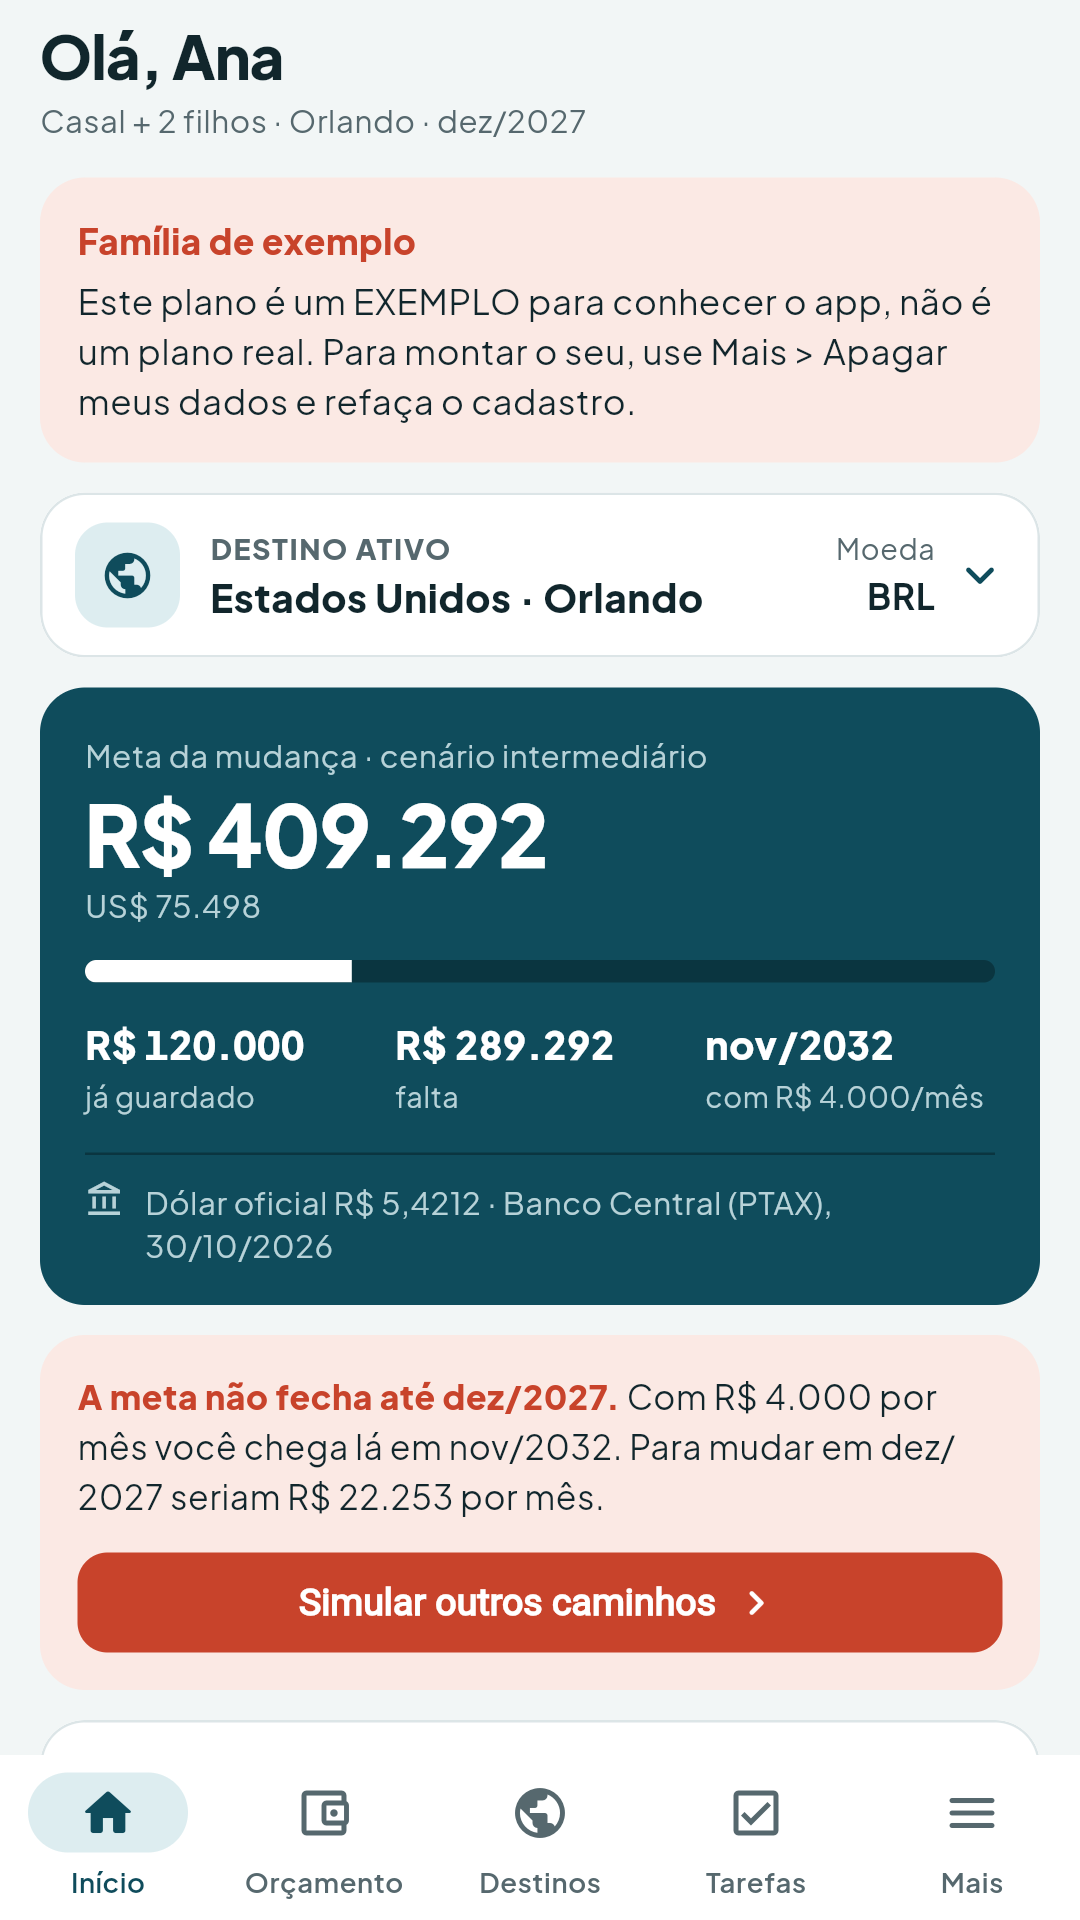
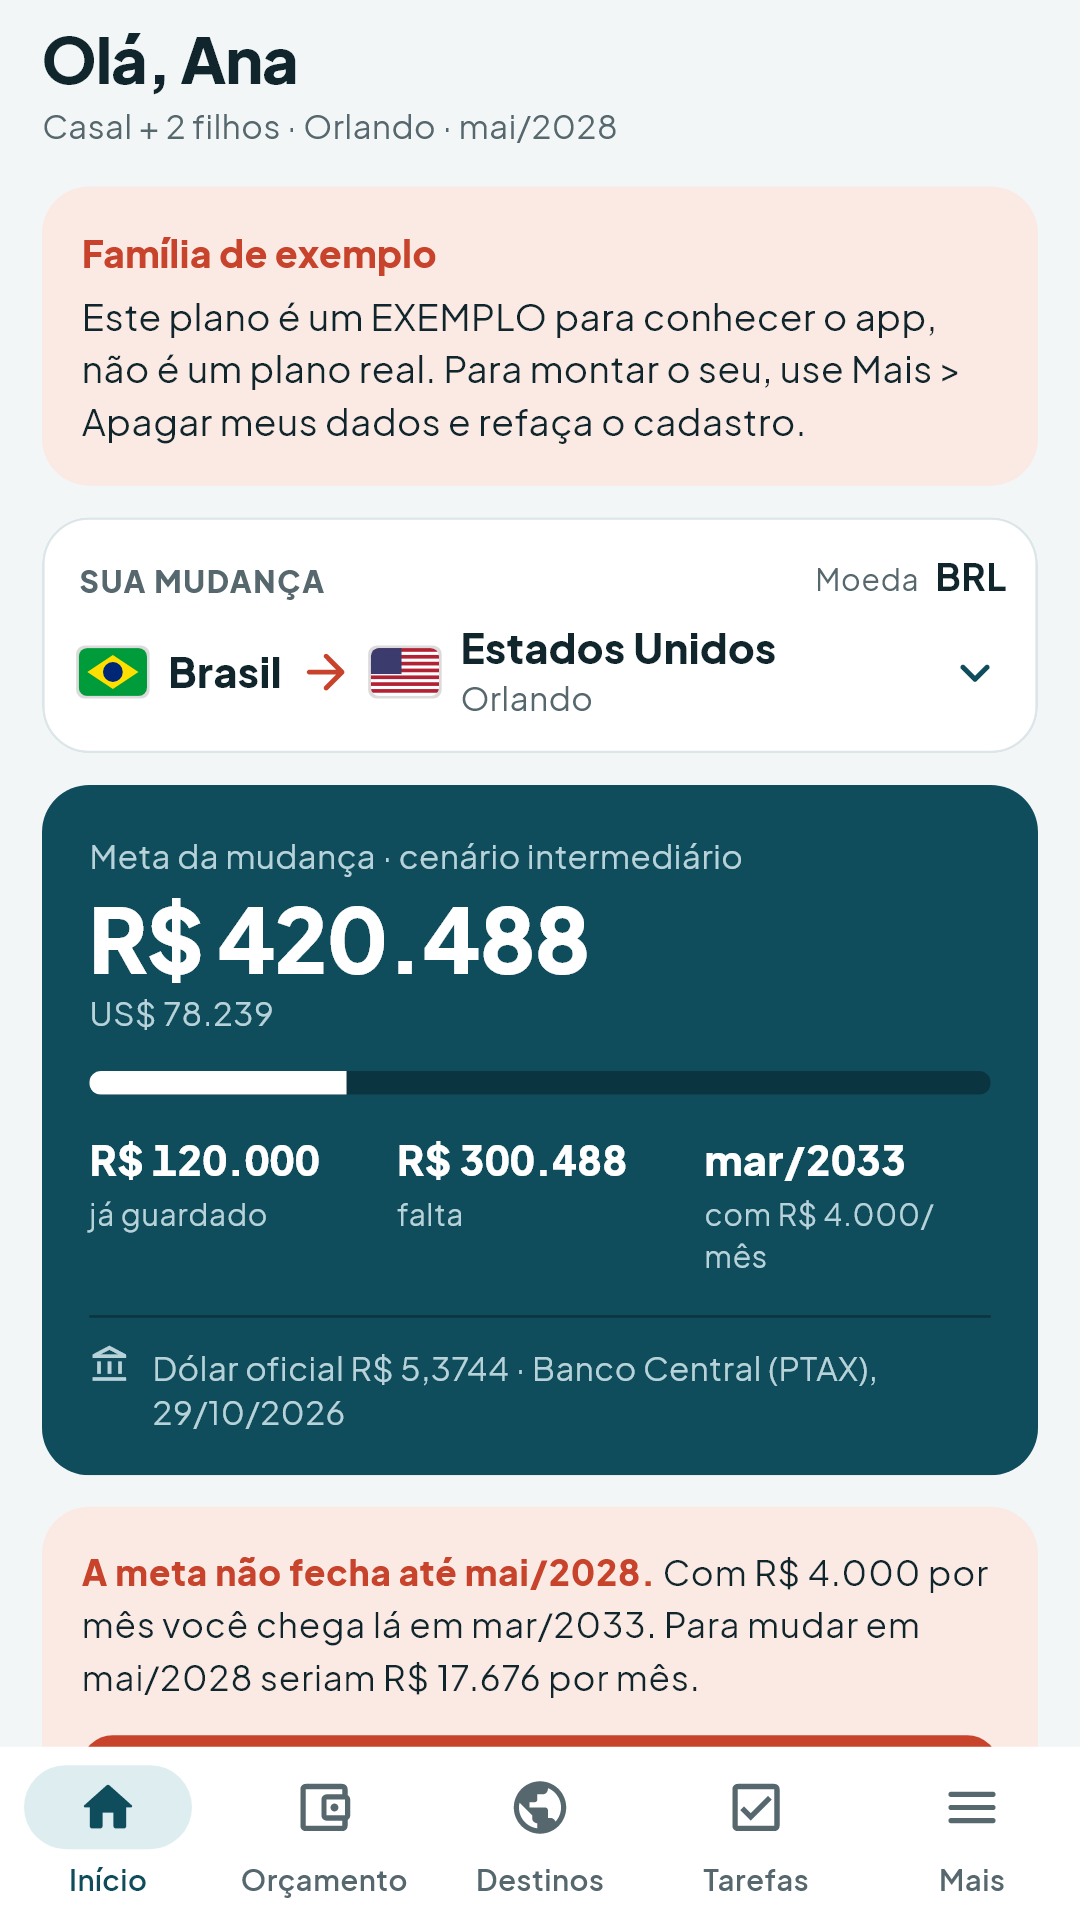
Contagem anonima de visitas e de toques nos selos

diff --git a/index.html b/index.html
@@ -13,7 +13,7 @@
 <link rel="stylesheet" href="estilo.css">
 <script>(function(){var l=new URLSearchParams(location.search).get('lang');if(l!=='pt'&&l!=='en'){l=null;try{l=localStorage.getItem('idioma')}catch(e){}}if(!l)l=(navigator.language||'').toLowerCase().indexOf('pt')===0?'pt':'en';document.documentElement.className='l-'+l;document.documentElement.lang=l==='pt'?'pt-BR':'en'})();</script>
 </head>
-<body class="site ">
+<body class="site " data-pagina="inicio">
 <header class="s-topo">
   <a class="s-marca" href="/">Emanuel Pools Corp</a>
   <button type="button" class="s-idioma" aria-label="Português / English"><b data-l="pt">PT</b><span data-l="pt">EN</span><span data-l="en">PT</span><b data-l="en">EN</b></button>
@@ -31,8 +31,8 @@
     </div>
     <span class="estado ok"><span data-l="pt">Disponível</span><span data-l="en">Available</span></span>
     <div class="selos">
-  <a href="https://apps.apple.com/app/id6829007862"><img data-l="pt" src="img/app-store-pt.png" alt="Baixar na App Store" width="120" height="40"><img data-l="en" src="img/app-store-en.png" alt="Download on the App Store" width="120" height="40"></a>
-  <a class="gp" href="https://play.google.com/store/apps/details?id=com.emanuelpools.meuplanomundo"><img data-l="pt" src="img/google-play-pt.png" alt="Disponível no Google Play"><img data-l="en" src="img/google-play-en.png" alt="Get it on Google Play"></a>
+  <a data-loja="apple" data-app="meuplano" href="https://apps.apple.com/app/id6829007862"><img data-l="pt" src="img/app-store-pt.png" alt="Baixar na App Store" width="120" height="40"><img data-l="en" src="img/app-store-en.png" alt="Download on the App Store" width="120" height="40"></a>
+  <a class="gp" data-loja="play" data-app="meuplano" href="https://play.google.com/store/apps/details?id=com.emanuelpools.meuplanomundo"><img data-l="pt" src="img/google-play-pt.png" alt="Disponível no Google Play"><img data-l="en" src="img/google-play-en.png" alt="Get it on Google Play"></a>
 </div>
     <div class="b-pe"><a href="/meuplano/"><span data-l="pt">Ver o app</span><span data-l="en">See the app</span><svg class="sv" viewBox="0 0 24 24" width="18" height="18" aria-hidden="true"><path d="M9 5l7 7-7 7" fill="none" stroke="currentColor" stroke-width="2.4" stroke-linecap="round" stroke-linejoin="round"/></svg></a><span class="mono">/meuplano</span></div>
   </article>
@@ -43,8 +43,8 @@
     </div>
     <span class="estado ok"><span data-l="pt">Disponível</span><span data-l="en">Available</span></span>
     <div class="selos">
-  <a href="https://apps.apple.com/app/id6808331337"><img data-l="pt" src="img/app-store-pt.png" alt="Baixar na App Store" width="120" height="40"><img data-l="en" src="img/app-store-en.png" alt="Download on the App Store" width="120" height="40"></a>
-  <a class="gp" href="https://play.google.com/store/apps/details?id=com.emanuelpools.zaproute_app"><img data-l="pt" src="img/google-play-pt.png" alt="Disponível no Google Play"><img data-l="en" src="img/google-play-en.png" alt="Get it on Google Play"></a>
+  <a data-loja="apple" data-app="zaproute" href="https://apps.apple.com/app/id6808331337"><img data-l="pt" src="img/app-store-pt.png" alt="Baixar na App Store" width="120" height="40"><img data-l="en" src="img/app-store-en.png" alt="Download on the App Store" width="120" height="40"></a>
+  <a class="gp" data-loja="play" data-app="zaproute" href="https://play.google.com/store/apps/details?id=com.emanuelpools.zaproute_app"><img data-l="pt" src="img/google-play-pt.png" alt="Disponível no Google Play"><img data-l="en" src="img/google-play-en.png" alt="Get it on Google Play"></a>
 </div>
     <div class="b-pe"><a href="https://zaprouteapp.com"><span data-l="pt">Ver o site</span><span data-l="en">See the site</span><svg class="sv" viewBox="0 0 24 24" width="18" height="18" aria-hidden="true"><path d="M9 5l7 7-7 7" fill="none" stroke="currentColor" stroke-width="2.4" stroke-linecap="round" stroke-linejoin="round"/></svg></a><span class="mono">zaprouteapp.com</span></div>
   </article>
@@ -55,8 +55,8 @@
     </div>
     <span class="estado ok"><span data-l="pt">Disponível</span><span data-l="en">Available</span></span>
     <div class="selos">
-  <a href="https://apps.apple.com/app/id6832136001"><img data-l="pt" src="img/app-store-pt.png" alt="Baixar na App Store" width="120" height="40"><img data-l="en" src="img/app-store-en.png" alt="Download on the App Store" width="120" height="40"></a>
-  <a class="gp" href="https://play.google.com/store/apps/details?id=com.emanuelpools.viavista"><img data-l="pt" src="img/google-play-pt.png" alt="Disponível no Google Play"><img data-l="en" src="img/google-play-en.png" alt="Get it on Google Play"></a>
+  <a data-loja="apple" data-app="viavista" href="https://apps.apple.com/app/id6832136001"><img data-l="pt" src="img/app-store-pt.png" alt="Baixar na App Store" width="120" height="40"><img data-l="en" src="img/app-store-en.png" alt="Download on the App Store" width="120" height="40"></a>
+  <a class="gp" data-loja="play" data-app="viavista" href="https://play.google.com/store/apps/details?id=com.emanuelpools.viavista"><img data-l="pt" src="img/google-play-pt.png" alt="Disponível no Google Play"><img data-l="en" src="img/google-play-en.png" alt="Get it on Google Play"></a>
 </div>
     <div class="b-pe"><a href="/viavista/"><span data-l="pt">Ver o app</span><span data-l="en">See the app</span><svg class="sv" viewBox="0 0 24 24" width="18" height="18" aria-hidden="true"><path d="M9 5l7 7-7 7" fill="none" stroke="currentColor" stroke-width="2.4" stroke-linecap="round" stroke-linejoin="round"/></svg></a><span class="mono">/viavista</span></div>
   </article>
@@ -66,6 +66,7 @@
   <p><span data-l="pt">Procurando serviço de piscina?</span><span data-l="en">Looking for pool service?</span> <a href="https://emanuelpool.com" rel="nofollow"><span data-l="pt">Acesse</span><span data-l="en">Go to</span> emanuelpool.com</a></p>
   <p><span data-l="pt">Suporte</span><span data-l="en">Support</span>: <a href="mailto:emanuelpools@gmail.com">emanuelpools@gmail.com</a></p>
   <p class="fraco">© 2026 Emanuel Pools Corp · Boca Raton, Florida</p>
+  <p class="fraco"><span data-l="pt">Este site conta visitas sem cookies e sem identificar você.</span><span data-l="en">This site counts visits without cookies and without identifying you.</span></p>
 </footer>
 <script>(function(){
 var r=document.documentElement,b=document.querySelectorAll('.s-idioma');
@@ -75,5 +76,6 @@ b.forEach(function(x){x.addEventListener('click',function(){var l=atual()==='pt'
 document.querySelectorAll('[data-ficha]').forEach(function(a){a.addEventListener('click',function(e){e.preventDefault();secao(a.dataset.ficha);history.replaceState(null,'','#'+a.dataset.ficha)})});
 var h=location.hash.slice(1);secao(/^(pt|en|es|it)$/.test(h)?h:atual());
 })();</script>
+<script src="contar.js" defer></script>
 </body>
 </html>

diff --git a/meuplano/index.html b/meuplano/index.html
@@ -13,7 +13,7 @@
 <link rel="stylesheet" href="../estilo.css">
 <script>(function(){var l=new URLSearchParams(location.search).get('lang');if(l!=='pt'&&l!=='en'){l=null;try{l=localStorage.getItem('idioma')}catch(e){}}if(!l)l=(navigator.language||'').toLowerCase().indexOf('pt')===0?'pt':'en';document.documentElement.className='l-'+l;document.documentElement.lang=l==='pt'?'pt-BR':'en'})();</script>
 </head>
-<body class="site ">
+<body class="site " data-pagina="meuplano">
 <header class="s-topo">
   <a class="s-volta" href="/"><svg class="sv" viewBox="0 0 24 24" width="18" height="18" aria-hidden="true"><path d="M15 5l-7 7 7 7" fill="none" stroke="currentColor" stroke-width="2.4" stroke-linecap="round" stroke-linejoin="round"/></svg><span data-l="pt">Todos os apps</span><span data-l="en">All apps</span></a>
   <button type="button" class="s-idioma" aria-label="Português / English"><b data-l="pt">PT</b><span data-l="pt">EN</span><span data-l="en">PT</span><b data-l="en">EN</b></button>
@@ -25,8 +25,8 @@
     <h1><span data-l="pt">Meu Plano Mundo</span><span data-l="en">My World Plan</span></h1>
     <p><span data-l="pt">Planeje a sua vida no exterior com números, prazos e fontes.</span><span data-l="en">Plan your life abroad with numbers, deadlines and sources.</span></p>
     <div class="selos">
-  <a href="https://apps.apple.com/app/id6829007862"><img data-l="pt" src="../img/app-store-pt.png" alt="Baixar na App Store" width="120" height="40"><img data-l="en" src="../img/app-store-en.png" alt="Download on the App Store" width="120" height="40"></a>
-  <a class="gp" href="https://play.google.com/store/apps/details?id=com.emanuelpools.meuplanomundo"><img data-l="pt" src="../img/google-play-pt.png" alt="Disponível no Google Play"><img data-l="en" src="../img/google-play-en.png" alt="Get it on Google Play"></a>
+  <a data-loja="apple" data-app="meuplano" href="https://apps.apple.com/app/id6829007862"><img data-l="pt" src="../img/app-store-pt.png" alt="Baixar na App Store" width="120" height="40"><img data-l="en" src="../img/app-store-en.png" alt="Download on the App Store" width="120" height="40"></a>
+  <a class="gp" data-loja="play" data-app="meuplano" href="https://play.google.com/store/apps/details?id=com.emanuelpools.meuplanomundo"><img data-l="pt" src="../img/google-play-pt.png" alt="Disponível no Google Play"><img data-l="en" src="../img/google-play-en.png" alt="Get it on Google Play"></a>
 </div>
   </div>
   <div class="h-foto"><img data-l="pt" src="../img/meu-plano-tela-pt.png" alt="Tela inicial do app com um plano de exemplo"><img data-l="en" src="../img/meu-plano-tela-en.png" alt="App home screen with a sample plan"></div>
@@ -45,6 +45,7 @@
   <p><span data-l="pt">Procurando serviço de piscina?</span><span data-l="en">Looking for pool service?</span> <a href="https://emanuelpool.com" rel="nofollow"><span data-l="pt">Acesse</span><span data-l="en">Go to</span> emanuelpool.com</a></p>
   <p><span data-l="pt">Suporte</span><span data-l="en">Support</span>: <a href="mailto:emanuelpools@gmail.com">emanuelpools@gmail.com</a></p>
   <p class="fraco">© 2026 Emanuel Pools Corp · Boca Raton, Florida</p>
+  <p class="fraco"><span data-l="pt">Este site conta visitas sem cookies e sem identificar você.</span><span data-l="en">This site counts visits without cookies and without identifying you.</span></p>
 </footer>
 <script>(function(){
 var r=document.documentElement,b=document.querySelectorAll('.s-idioma');
@@ -54,5 +55,6 @@ b.forEach(function(x){x.addEventListener('click',function(){var l=atual()==='pt'
 document.querySelectorAll('[data-ficha]').forEach(function(a){a.addEventListener('click',function(e){e.preventDefault();secao(a.dataset.ficha);history.replaceState(null,'','#'+a.dataset.ficha)})});
 var h=location.hash.slice(1);secao(/^(pt|en|es|it)$/.test(h)?h:atual());
 })();</script>
+<script src="../contar.js" defer></script>
 </body>
 </html>

diff --git a/viavista/index.html b/viavista/index.html
@@ -13,7 +13,7 @@
 <link rel="stylesheet" href="../estilo.css">
 <script>(function(){var l=new URLSearchParams(location.search).get('lang');if(l!=='pt'&&l!=='en'){l=null;try{l=localStorage.getItem('idioma')}catch(e){}}if(!l)l=(navigator.language||'').toLowerCase().indexOf('pt')===0?'pt':'en';document.documentElement.className='l-'+l;document.documentElement.lang=l==='pt'?'pt-BR':'en'})();</script>
 </head>
-<body class="site tema-vy">
+<body class="site tema-vy" data-pagina="viavista">
 <header class="s-topo">
   <a class="s-volta" href="/"><svg class="sv" viewBox="0 0 24 24" width="18" height="18" aria-hidden="true"><path d="M15 5l-7 7 7 7" fill="none" stroke="currentColor" stroke-width="2.4" stroke-linecap="round" stroke-linejoin="round"/></svg><span data-l="pt">Todos os apps</span><span data-l="en">All apps</span></a>
   <button type="button" class="s-idioma" aria-label="Português / English"><b data-l="pt">PT</b><span data-l="pt">EN</span><span data-l="en">PT</span><b data-l="en">EN</b></button>
@@ -25,8 +25,8 @@
     <h1 class="vy-nome">VIAVISTA</h1>
     <p><span data-l="pt">Sua viagem de moto: estrada, custo e chegada.</span><span data-l="en">Your motorcycle trip: road, cost and arrival.</span></p>
     <div class="selos">
-  <a href="https://apps.apple.com/app/id6832136001"><img data-l="pt" src="../img/app-store-pt.png" alt="Baixar na App Store" width="120" height="40"><img data-l="en" src="../img/app-store-en.png" alt="Download on the App Store" width="120" height="40"></a>
-  <a class="gp" href="https://play.google.com/store/apps/details?id=com.emanuelpools.viavista"><img data-l="pt" src="../img/google-play-pt.png" alt="Disponível no Google Play"><img data-l="en" src="../img/google-play-en.png" alt="Get it on Google Play"></a>
+  <a data-loja="apple" data-app="viavista" href="https://apps.apple.com/app/id6832136001"><img data-l="pt" src="../img/app-store-pt.png" alt="Baixar na App Store" width="120" height="40"><img data-l="en" src="../img/app-store-en.png" alt="Download on the App Store" width="120" height="40"></a>
+  <a class="gp" data-loja="play" data-app="viavista" href="https://play.google.com/store/apps/details?id=com.emanuelpools.viavista"><img data-l="pt" src="../img/google-play-pt.png" alt="Disponível no Google Play"><img data-l="en" src="../img/google-play-en.png" alt="Get it on Google Play"></a>
 </div>
   </div>
 </section>
@@ -52,6 +52,7 @@
   <p><span data-l="pt">Procurando serviço de piscina?</span><span data-l="en">Looking for pool service?</span> <a href="https://emanuelpool.com" rel="nofollow"><span data-l="pt">Acesse</span><span data-l="en">Go to</span> emanuelpool.com</a></p>
   <p><span data-l="pt">Suporte</span><span data-l="en">Support</span>: <a href="mailto:emanuelpools@gmail.com">emanuelpools@gmail.com</a></p>
   <p class="fraco">© 2026 Emanuel Pools Corp · Boca Raton, Florida</p>
+  <p class="fraco"><span data-l="pt">Este site conta visitas sem cookies e sem identificar você.</span><span data-l="en">This site counts visits without cookies and without identifying you.</span></p>
 </footer>
 <script>(function(){
 var r=document.documentElement,b=document.querySelectorAll('.s-idioma');
@@ -61,5 +62,6 @@ b.forEach(function(x){x.addEventListener('click',function(){var l=atual()==='pt'
 document.querySelectorAll('[data-ficha]').forEach(function(a){a.addEventListener('click',function(e){e.preventDefault();secao(a.dataset.ficha);history.replaceState(null,'','#'+a.dataset.ficha)})});
 var h=location.hash.slice(1);secao(/^(pt|en|es|it)$/.test(h)?h:atual());
 })();</script>
+<script src="../contar.js" defer></script>
 </body>
 </html>

diff --git a/contar.js b/contar.js
@@ -1,0 +1,57 @@
+(function(){"use strict";
+function origemDe(busca, referrer) {
+  var u = "", h = "";
+  try { u = (new URLSearchParams(busca || "").get("utm_source") || "").toLowerCase().trim(); } catch (e) {}
+  try { h = referrer ? new URL(referrer).hostname.toLowerCase().replace(/^www\./, "") : ""; } catch (e) {}
+  if (!u && (h === "emanuelpools.com" || h === "localhost")) return "";
+  if (!u && !h) return "direto";
+  if (/^(ig|instagram)$/.test(u) || /(^|\.)instagram\.com$/.test(h)) return "instagram";
+  if (/^(tt|tiktok)$/.test(u) || /(^|\.)tiktok\.com$/.test(h)) return "tiktok";
+  if (/^(fb|facebook)$/.test(u) || /(^|\.)(facebook\.com|fb\.com|fb\.me)$/.test(h)) return "facebook";
+  if (/^(yt|youtube)$/.test(u) || /(^|\.)youtube\.com$|^youtu\.be$/.test(h)) return "youtube";
+  if (!u && /^(apps\.apple\.com|itunes\.apple\.com|play\.google\.com)$/.test(h)) return "lojas";
+  if (/^(google|gbp|gmb)$/.test(u) || (!u && /(^|\.)google\.[a-z]{2,3}(\.[a-z]{2})?$/.test(h))) return "google";
+  if (!u && /(^|\.)(bing\.com|duckduckgo\.com|yahoo\.com|ecosia\.org|brave\.com)$/.test(h)) return "busca";
+  if (!u && /^(zaprouteapp\.com|viavista\.pages\.dev|emanuelpool\.com)$/.test(h)) return "nossos-sites";
+  return "outro";
+}
+function linkDoPlay(href, origem, pagina) {
+  if (!/^https:\/\/play\.google\.com\/store\/apps\/details\?id=[\w.]+$/.test(href)) return href;
+  return href + "&referrer=" + encodeURIComponent("utm_source=" + origem + "&utm_medium=site&utm_campaign=" + pagina);
+}
+function linkDaApple(href, pt, origem, pagina) {
+  if (!pt || !/^https:\/\/apps\.apple\.com\/app\/id\d+$/.test(href)) return href;
+  return href + "?pt=" + pt + "&ct=" + (origem + "-" + pagina).slice(0, 40) + "&mt=8";
+}
+function ligar(w, urlContagem, applePt) {
+  var d = w.document, pagina = d.body && d.body.getAttribute("data-pagina");
+  if (!pagina || !urlContagem) return;
+  if (/bot|crawl|spider|headless|lighthouse/i.test(w.navigator.userAgent || "")) return;
+  var conferindo = false;
+  try { conferindo = new URLSearchParams(w.location.search).has("eu"); } catch (e) {}
+  var origem = origemDe(w.location.search, d.referrer);
+  try {
+    if (origem === "") origem = w.sessionStorage.getItem("origem") || "direto";
+    else w.sessionStorage.setItem("origem", origem);
+  } catch (e) { if (origem === "") origem = "direto"; }
+  function idioma() { return d.documentElement.className === "l-pt" ? "pt" : "en"; }
+  function contar(evento, app) {
+    var dados = { p: pagina, i: idioma(), o: origem, e: evento, a: app || "" };
+    if (conferindo) dados.eu = 1;
+    var corpo = JSON.stringify(dados);
+    try {
+      if (!(w.navigator.sendBeacon && w.navigator.sendBeacon(urlContagem, corpo))) w.fetch(urlContagem, { method: "POST", body: corpo, keepalive: true }).catch(function () {});
+    } catch (e) { /* contar nunca pode quebrar a pagina */ }
+  }
+  contar("visita");
+  var selos = d.querySelectorAll("a[data-loja]");
+  for (var k = 0; k < selos.length; k++) (function (a) {
+    var loja = a.getAttribute("data-loja"), app = a.getAttribute("data-app");
+    a.href = loja === "play" ? linkDoPlay(a.href, origem, pagina) : linkDaApple(a.href, applePt, origem, pagina);
+    a.addEventListener("click", function () { contar(loja, app); });
+  })(selos[k]);
+  var estradas = d.querySelectorAll(".vr-lista a, .vr-todas");
+  for (var j = 0; j < estradas.length; j++) estradas[j].addEventListener("click", function () { contar("estrada", "viavista"); });
+}
+ligar(window, "https://emanuelpools-contagem.pages.dev/evento", "");
+})();
